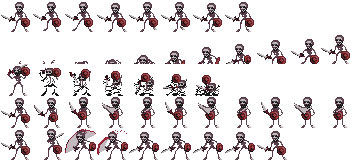
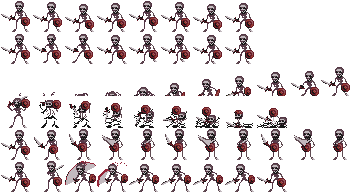
Переработана локация

diff --git a/src/main.c b/src/main.c
@@ -10,51 +10,76 @@ int main()
 
 	packNamesHeader(arcFile, &currentOffset, &currentFilesCount);
 
-	arcf_objheader_t* objs = initObjectsHeader(22);
-	// TORCH 1
-	fillObjectData(objs, 0, 0, 0, 3, 4, true);
-	// TORCH 2
-	fillObjectData(objs, 0, 0, 0, 11, 4, true);
-	// TORCH 3
-	fillObjectData(objs, 0, 0, 0, 19, 4, true);
-	// TORCH 4
-	fillObjectData(objs, 0, 0, 0, 27, 4, true);
-	// TORCH 5
-	fillObjectData(objs, 0, 0, 0, 35, 4, true);
-	// CHEST
-	fillObjectData(objs, 2, 0, 0, 11, 6, false);
+	arcf_objheader_t* objs = initObjectsHeader(42);
 	// COLUMN 1
-	fillObjectData(objs, 1, 1, 1, 7, 6, false);
-	fillObjectData(objs, 1, 2, 1, 7, 5, false);
-	fillObjectData(objs, 1, 2, 1, 7, 4, false);
-	fillObjectData(objs, 1, 3, 1, 7, 3, false);
+	fillObjectData(objs, 1, 1, 1, 5, 11, false);
+	fillObjectData(objs, 1, 2, 1, 5, 10, false);
+	fillObjectData(objs, 1, 3, 1, 5, 9, false);
 	// COLUMN 2
-	fillObjectData(objs, 1, 1, 1, 15, 6, false);
-	fillObjectData(objs, 1, 2, 1, 15, 5, false);
-	fillObjectData(objs, 1, 2, 1, 15, 4, false);
-	fillObjectData(objs, 1, 3, 1, 15, 3, false);
+	fillObjectData(objs, 1, 1, 1, 7, 11, false);
+	fillObjectData(objs, 1, 2, 1, 7, 10, false);
+	fillObjectData(objs, 1, 3, 1, 7, 9, false);
 	// COLUMN 3
-	fillObjectData(objs, 1, 1, 1, 23, 6, false);
-	fillObjectData(objs, 1, 2, 1, 23, 5, false);
-	fillObjectData(objs, 1, 2, 1, 23, 4, false);
-	fillObjectData(objs, 1, 3, 1, 23, 3, false);
+	fillObjectData(objs, 1, 1, 1, 9, 11, false);
+	fillObjectData(objs, 1, 2, 1, 9, 10, false);
+	fillObjectData(objs, 1, 3, 1, 9, 9, false);
 	// COLUMN 4
-	fillObjectData(objs, 1, 1, 1, 31, 6, false);
-	fillObjectData(objs, 1, 2, 1, 31, 5, false);
-	fillObjectData(objs, 1, 2, 1, 31, 4, false);
-	fillObjectData(objs, 1, 3, 1, 31, 3, false);
+	fillObjectData(objs, 1, 1, 1, 11, 11, false);
+	fillObjectData(objs, 1, 2, 1, 11, 10, false);
+	fillObjectData(objs, 1, 3, 1, 11, 9, false);
+	// COLUMN 5
+	fillObjectData(objs, 1, 1, 1, 13, 11, false);
+	fillObjectData(objs, 1, 2, 1, 13, 10, false);
+	fillObjectData(objs, 1, 3, 1, 13, 9, false);
+	// COLUMN 6
+	fillObjectData(objs, 1, 1, 1, 15, 11, false);
+	fillObjectData(objs, 1, 2, 1, 15, 10, false);
+	fillObjectData(objs, 1, 3, 1, 15, 9, false);
+	// COLUMN 7
+	fillObjectData(objs, 1, 1, 1, 17, 11, false);
+	fillObjectData(objs, 1, 2, 1, 17, 10, false);
+	fillObjectData(objs, 1, 2, 1, 17, 9, false);
+	fillObjectData(objs, 1, 2, 1, 17, 8, false);
+	fillObjectData(objs, 1, 2, 1, 17, 7, false);
+	fillObjectData(objs, 1, 2, 1, 17, 6, false);
+	fillObjectData(objs, 1, 3, 1, 17, 5, false);
+	// COLUMN 8
+	fillObjectData(objs, 1, 1, 1, 23, 11, false);
+	fillObjectData(objs, 1, 3, 1, 23, 10, false);
+	// COLUMN 9
+	fillObjectData(objs, 1, 1, 1, 34, 11, false);
+	fillObjectData(objs, 1, 2, 1, 34, 10, false);
+	fillObjectData(objs, 1, 2, 1, 34, 9, false);
+	fillObjectData(objs, 1, 2, 1, 34, 8, false);
+	fillObjectData(objs, 1, 2, 1, 34, 7, false);
+	fillObjectData(objs, 1, 2, 1, 34, 6, false);
+	fillObjectData(objs, 1, 3, 1, 34, 5, false);
+	// LIANA 1
+	fillObjectData(objs, 1, 4, 1, 5, 10, false);
+	// LIANA 2
+	fillObjectData(objs, 1, 4, 1, 7, 11, false);
+	// LIANA 3
+	fillObjectData(objs, 1, 4, 1, 9, 10, false);
+	// LIANA 4
+	fillObjectData(objs, 1, 4, 1, 15, 10, false);
+	// TORCH 1
+	fillObjectData(objs, 0, 0, 0, 17, 6, true);
+	// TORCH 2
+	fillObjectData(objs, 0, 0, 0, 17, 8, true);
+	// TORCH 3
+	fillObjectData(objs, 0, 0, 0, 34, 6, true);
+	// TORCH 4
+	fillObjectData(objs, 0, 0, 0, 34, 8, true);
 	packObjectsData(objs, arcFile, &currentOffset, &currentFilesCount);
 
-	arcf_entcfgheader_t* ents = initEntHeader(6);
-	fillEntityData(ents, 0, 0, 0, 24, 4, 1, 0, 0, 2, 0, 0, 20, 6, 100, 100, 0, 0, 20, 2, 8, 0);
-	fillEntityData(ents, 11, 3, 1, 24, 9, 4, 7, 2, 3, 0, 0, 20, 6, 180, 100, 11, 1, 16, 1, 8, 0);
-	fillEntityData(ents, 11, 3, 1, 24, 9, 4, 7, 2, 3, 0, 0, 20, 6, 220, 100, 11, 1, 16, 1, 8, 0);
-	fillEntityData(ents, 11, 3, 1, 24, 9, 4, 7, 2, 3, 0, 0, 20, 6, 240, 100, 11, 1, 16, 1, 8, 0);
-	fillEntityData(ents, 11, 3, 1, 24, 9, 4, 7, 2, 3, 0, 0, 20, 6, 270, 100, 11, 1, 16, 1, 8, 0);
-	fillEntityData(ents, 11, 3, 1, 24, 9, 4, 7, 2, 3, 0, 0, 20, 6, 280, 100, 11, 1, 16, 1, 8, 0);
+	arcf_entcfgheader_t* ents = initEntHeader(4);
+	fillEntityData(ents, 0, 0, 0, 24, 4, 2, 0, 0, 1, 2, 20, 6, 100, 160, 0, 0, 20, 2, 8, 1, 6, 0);
+	fillEntityData(ents, 11, 4, 1, 24, 9, 5, 7, 3, 3, 3, 20, 6, 416, 160, 11, 2, 16, 1, 8, 1, 8, 0);
+	fillEntityData(ents, 11, 4, 1, 24, 9, 5, 7, 3, 3, 3, 20, 6, 432, 160, 11, 2, 16, 1, 8, 1, 8, 0);
+	fillEntityData(ents, 11, 4, 1, 24, 9, 5, 7, 3, 3, 3, 20, 6, 464, 160, 11, 2, 16, 1, 8, 1, 8, 0);
 	packEntityData(ents, arcFile, &currentOffset, &currentFilesCount);
 
-	packMap_Tomb(arcFile, 9, 39, &currentOffset, &currentFilesCount);
+	packMap_Tomb(arcFile, 17, 36, &currentOffset, &currentFilesCount);
 
 	packSpriteFile("in/font_bitmap.png", "FNT", arcFile, &currentOffset, &currentFilesCount);
 	packSpriteFile("in/health_bar.png", "HLTHBR", arcFile, &currentOffset, &currentFilesCount);

diff --git a/src/arcfile_maker.c b/src/arcfile_maker.c
@@ -10,19 +10,27 @@ arcf_entry_t allEntries[16];
 void packMap_Tomb(FILE* arcFile, uint32_t rows, uint32_t columns, uint32_t* currentOffset, uint32_t* currentFilesCount)
 {
 	const char* design[] = {
-		"........................................",
-		"........................................",
-		"IIIIIIIIIIIIIIIIIIIIIIIIIIIIIIIIIIIIIIII",
-		"........................................",
-		"........................................",
-		"........................................",
-		"........................................",
-		"DDDDDDDDDDDDDDDDDDDDDDDDDDDDDDDDDDDDDDDD",
-		"IIIIIIIIIIIIIIIIIIIIIIIIIIIIIIIIIIIIIIII"
+		"....................................",
+		"....................................",
+		"....................................",
+		"....................................",
+		"................KKKKKKKKKKKKKKKKKKKK",
+		"................KFFFFFFFFFFFFFFFFFFK",
+		"................KFFFFLLFFFFFLLFFFFFK",
+		"................KFFFFFFFFFFFLLFFFFFK",
+		"....KKKKKKKKKKKKKFFFFFFFFFFFFFFFFFFK",
+		"....FFFFFFFFFFFFFFFFFLLLLFFFFFFFFFFK",
+		"....FFFFFFFLLFFFFFFLLLLFFFFFFFFFFFFK",
+		"....FFFFFFFLLLLLFFFFFFFFFFFFLLFFFFFK",
+		"BBABDDDDDDDDDDDDDDDDDDDDDDDDDDDDDDDD",
+		"HHGHJJJJJJJJJJJJJJJJJJJJJJJJJJJJJJJJ",
+		"HHGHJJJJJJJJJJJJJJJJJJJJJJJJJJJJJJJJ",
+		"HHGHJJJJJJJJJJJJJJJJJJJJJJJJJJJJJJJJ",
+		"AAAAHHHHHHHHHHHHHHHHHHHHHHHHHHHHHHHH"
 	};
 
 	int maxRows = sizeof(design) / sizeof(design[0]);
-	int maxCols = 40;
+	int maxCols = 36;
 	if (rows > maxRows) rows = maxRows;
 	if (columns > maxCols) columns = maxCols;
 
@@ -199,8 +207,8 @@ void fillObjectData(arcf_objheader_t* objHeader, uint32_t si, uint32_t bsx, uint
 }
 
 void fillEntityData(arcf_entcfgheader_t* entHeader, int afc, int afr, int asi, int atd, int atfc, int atfr,
-int dfc, int dfr,int dmsi, int hfc, int hfr, int knck, int mhp, int pX, int pY, int sfc, int sfr, int spd,
-int str, int wfc, int wfr)				// That's awful for now
+int dfc, int dfr, int dlf, int dmsi, int knck, int mhp, int pX, int pY, int sfc, int sfr, int spd,
+int str, int wfc, int wfr, int stfc, int stfr)				// That's awful for now
 {
 	e_config_t cfg = {
 		.angerFramesCount = afc,
@@ -211,9 +219,8 @@ int str, int wfc, int wfr)				// That's awful for now
 		.attackFramesRow = atfr,
 		.deathFramesCount = dfc,
 		.deathFramesRow = dfr,
+		.deathLastFrames = dlf,
 		.dmgSpriteIndex = dmsi,
-		.hurtFramesCount = hfc,
-		.hurtFramesRow = hfr,
 		.knockback = knck,
 		.maxHp = mhp,
 		.posX = pX,
@@ -223,7 +230,9 @@ int str, int wfc, int wfr)				// That's awful for now
 		.speed = spd,
 		.strength = str,
 		.walkFramesCount = wfc,
-		.walkFramesRow = wfr
+		.walkFramesRow = wfr,
+		.stayFramesCount = stfc,
+		.stayFramesRow = stfr
 	};
 
 	entHeader->items[entHeader->cfgCount] = cfg;

diff --git a/src/arcfile_maker.h b/src/arcfile_maker.h
@@ -11,8 +11,8 @@ void packFile(const char* filePath, const char* fileName, FILE* arcFile, uint32_
 void packNamesHeader(FILE* arcFile, uint32_t* currentOffset, uint32_t* currentFilesCount);
 arcf_entcfgheader_t* initEntHeader(uint32_t entCfgsCount);
 void fillEntityData(arcf_entcfgheader_t* entHeader, int afc, int afr, int asi, int atd, int atfc, int atfr,
-int dfc, int dfr,int dmsi, int hfc, int hfr, int knck, int mhp, int pX, int pY, int sfc, int sfr, int spd,
-int str, int wfc, int wfr);
+int dfc, int dfr, int dlf, int dmsi, int knck, int mhp, int pX, int pY, int sfc, int sfr, int spd,
+int str, int wfc, int wfr, int stfc, int stfr);
 void packEntityData(arcf_entcfgheader_t* entHeader, FILE* arcFile, uint32_t* currentOffset, uint32_t* currentFilesCount);
 void packSpriteFile(const char* filePath, const char* fileName, FILE* arcFile, uint32_t* currentOffset, uint32_t* currentFilesCount);
 void fillObjectData(arcf_objheader_t* objHeader, uint32_t si, uint32_t bsx, uint32_t bsy, uint32_t btx, uint32_t bty, bool isAnim);

diff --git a/src/typedefs.h b/src/typedefs.h
@@ -68,10 +68,11 @@ typedef struct EntityConfig
 	// FRAME COUNTS
 	uint32_t spawnFramesCount;
 	uint32_t deathFramesCount;
+	uint32_t deathLastFrames;
 	uint32_t walkFramesCount;
+	uint32_t stayFramesCount;
 	uint32_t angerFramesCount;
 	uint32_t attackFramesCount;
-	uint32_t hurtFramesCount;
 	// COMBAT
 	uint32_t knockback;
 	uint32_t speed;
@@ -84,8 +85,8 @@ typedef struct EntityConfig
 	uint32_t deathFramesRow;
 	uint32_t angerFramesRow;
 	uint32_t attackFramesRow;
-	uint32_t hurtFramesRow;
 	uint32_t walkFramesRow;
+	uint32_t stayFramesRow;
 } e_config_t;
 
 typedef struct ARCF_EntCfgHeader
